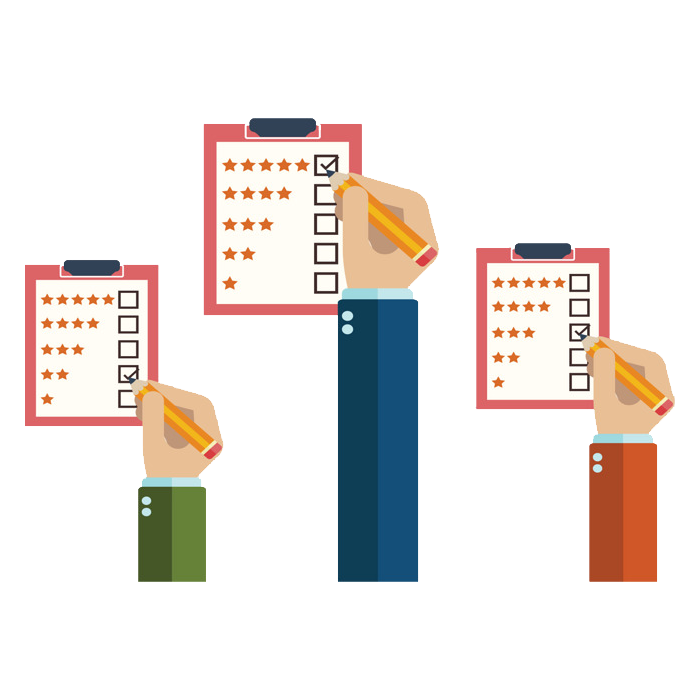
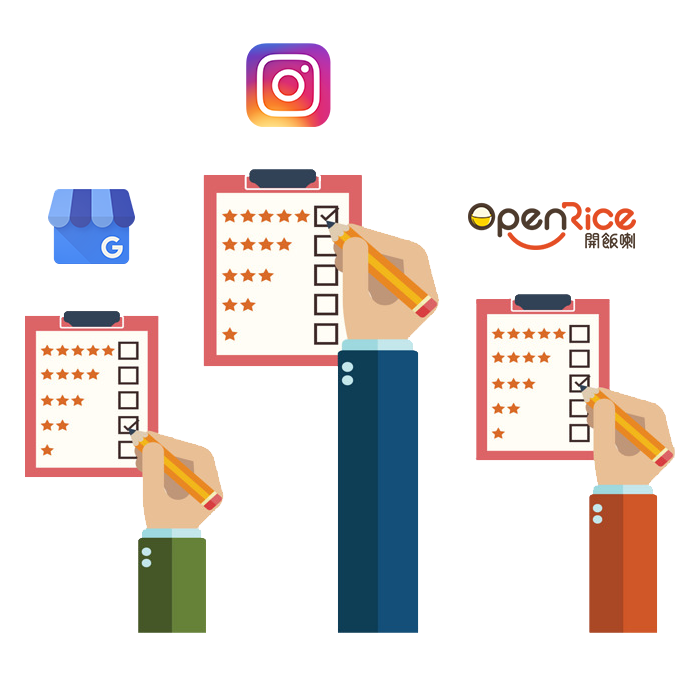
New image and additonal text

diff --git a/index.html b/index.html
@@ -57,7 +57,7 @@ description: Track and optimize your sales team in real time
 		<div class="container flex">
 			<div class="text editable">
 				<h2>增加<strong>5星評分</strong></h2>
-				<p>Jonny 仲會自動識別邊個係你既熟客，邀請佢地係 FB / Google 地圖 為你餐廳俾個好評! </p>
+				<p>Jonny 仲會自動識別邊個係你既熟客，邀請佢地係 IG，FB， Google 地圖及 Open Rice為你餐廳寫個好評! </p>
 			</div>
 			<div class="image">
 				<img width="30" src="/images/rating.png" alt="Screenshot" class="" />
@@ -89,12 +89,26 @@ description: Track and optimize your sales team in real time
 				<p>係呢個時候，你就可以搵 Jonny 向客人發送宣傳訊息，協助你將新產品或優惠推廣俾客人</p>
 			</div>
 			<div class="image">
-				<img width="30" src="/images/promotion.jpg" alt="Screenshot" class="" />
+				<img width="30" src="/images/promotion.png" alt="Screenshot" class="" />
 			</div>
 		</div>
 	</section>
+
+	<section>
+		<div class="container flex">
+			<div class="text editable">
+				<h2>價錢</strong></h2>
+				<p>只要用每日半杯咖啡既價錢，你就可以請 Jonny 24 小時為你宣傳</p>
+			</div>
+			<div class="image">
+				<img width="30" src="/images/coffee.png" alt="Screenshot" class="" />
+			</div>
+		</div>
+	</section>
+
+
 	<section class="bottom-cta">
-		<h2 class="editable">立即試用</h2>
-		<div class="button alt"><a href="#">Get Started Free</a></div>
+		<h2 class="editable">第一個月免費</h2>
+		<div class="button alt"><a href="#">立即試用</a></div>
 	</section>
 </div>

diff --git a/_sass/landing-page.scss b/_sass/landing-page.scss
@@ -10,6 +10,11 @@
 	}
 }
 
+section:nth-of-type(odd){
+	background-color: #f5f5f5;
+  }
+
+
 .testimonial {
 	// background: ;
 
@@ -24,7 +29,8 @@
 
 	.testimonial-block {
 
-		background-color: rgba(255, 255, 255, 1);
+		font-size: 1.3em;
+		background-color: rgba(255, 255, 255, 0.9);
 		// background-
 		max-width: 750px;
 		width: 98%;

diff --git a/_sass/layout.scss b/_sass/layout.scss
@@ -69,11 +69,11 @@ header {
 }
 
 section {
-	padding: 100px 0;
+	padding: 50px 0;
 }
 
 section + section {
-	padding-top: 0;
+	padding-top: 20px;
 }
 
 .subtext {
